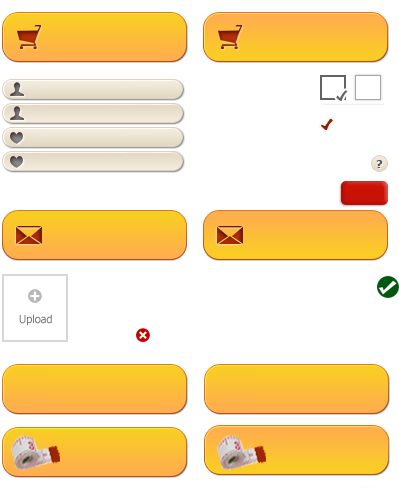
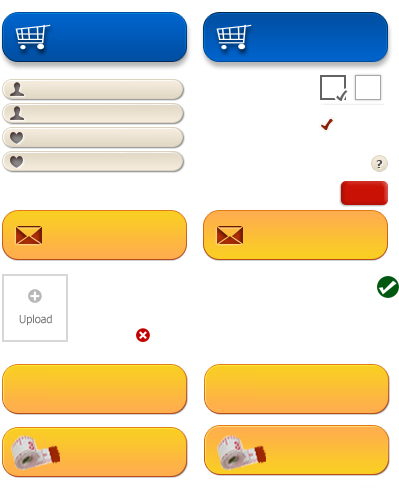
2013.1.23 button01_bg.gif
git-svn-id: https://sp-b2cv1.googlecode.com/svn/shopJoyBuy@1396 c8aa77e7-4d14-485d-9416-cb5e655923dd

Changed region(s): [[0.0, 0.0, 0.4812, 0.1503], [0.5113, 0.0, 0.9925, 0.1503]]

diff --git a/war/css/thing_item.css b/war/css/thing_item.css
@@ -113,7 +113,7 @@ li.sel{border:1px solid #f90;}
 .item_propertyAlert{background:#FFDDD6; color:#CC0201; height:25px; line-height:25px; text-align:center; font-size:10px; margin-top:10px; font-weight:bold; visibility:hidden; }
 .item_funHelp{font-style:italic;color:#797979;text-decoration:underline;float:right;margin:5px 0;}
 .item_help,.item_funHelp{background:url(goods-bt.png) -370px -153px no-repeat;padding:2px 0 2px 20px;}
-input.item_addBag{background:url(goods-bt.png) -1px -12px no-repeat; width:188px; height:52px; padding-left:42px; border:none; line-height:52px; font-size:16px; font-weight:bold;cursor:pointer; color:#B52F07;text-transform:uppercase;}
+input.item_addBag{background:url(goods-bt.png) -1px -12px no-repeat; width:188px; height:52px; padding-left:42px; border:none; line-height:52px; font-size:16px; font-weight:bold;cursor:pointer; color:#fff;text-transform:uppercase;}
 input.item_addBag:hover{background:url(goods-bt.png) -202px -12px no-repeat;}
 input.item_emailtome{background:url(goods-bt.png) -1px -210px no-repeat; width:188px; height:52px; padding-left:42px; border:none; line-height:52px; font-size:16px; font-weight:bold;cursor:pointer; color:#B52F07;text-transform:uppercase;}
 input.item_emailtome:hover{background:url(goods-bt.png) -202px -210px no-repeat;}

diff --git a/war/style/css/common.css b/war/style/css/common.css
@@ -34,7 +34,8 @@ img {
 	height: 25px;
 	overflow: visible;
 	padding: 0 8px;
-	color: #dcedff;
+	color: #fff;
+	text-shadow: 1px 1px 0 #004085;
 }
 
 .button_02 {
@@ -46,8 +47,9 @@ img {
 	height: 35px;
 	width:183px;
 	overflow: visible;
-	text-shadow: 1px 1px 0 rgba(255, 255, 255, 0.7);
+	text-shadow: 1px 1px 0 #004085;
 	border:0;
+	color:#fff
 }
 
 input,select {
